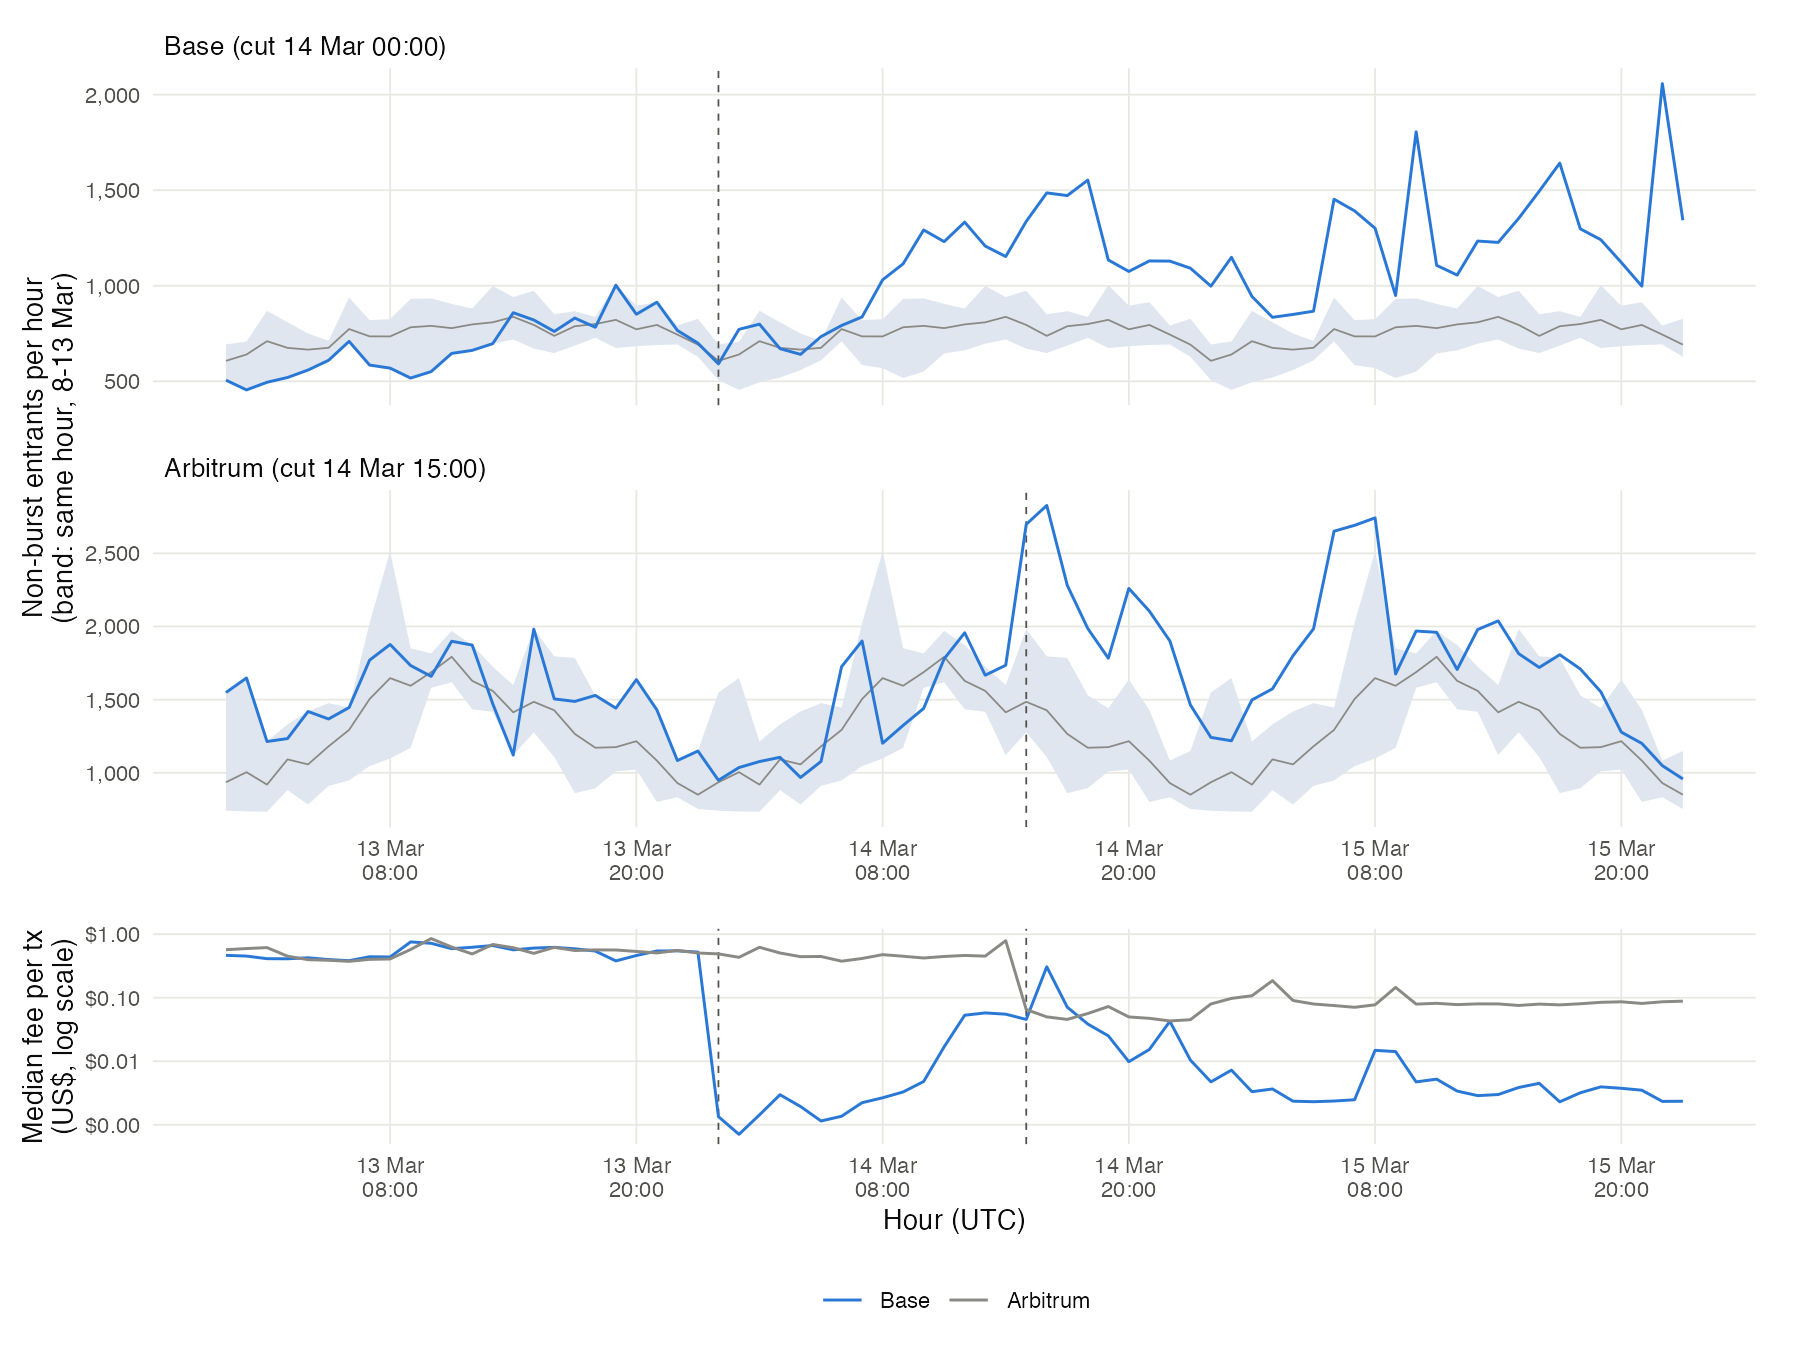
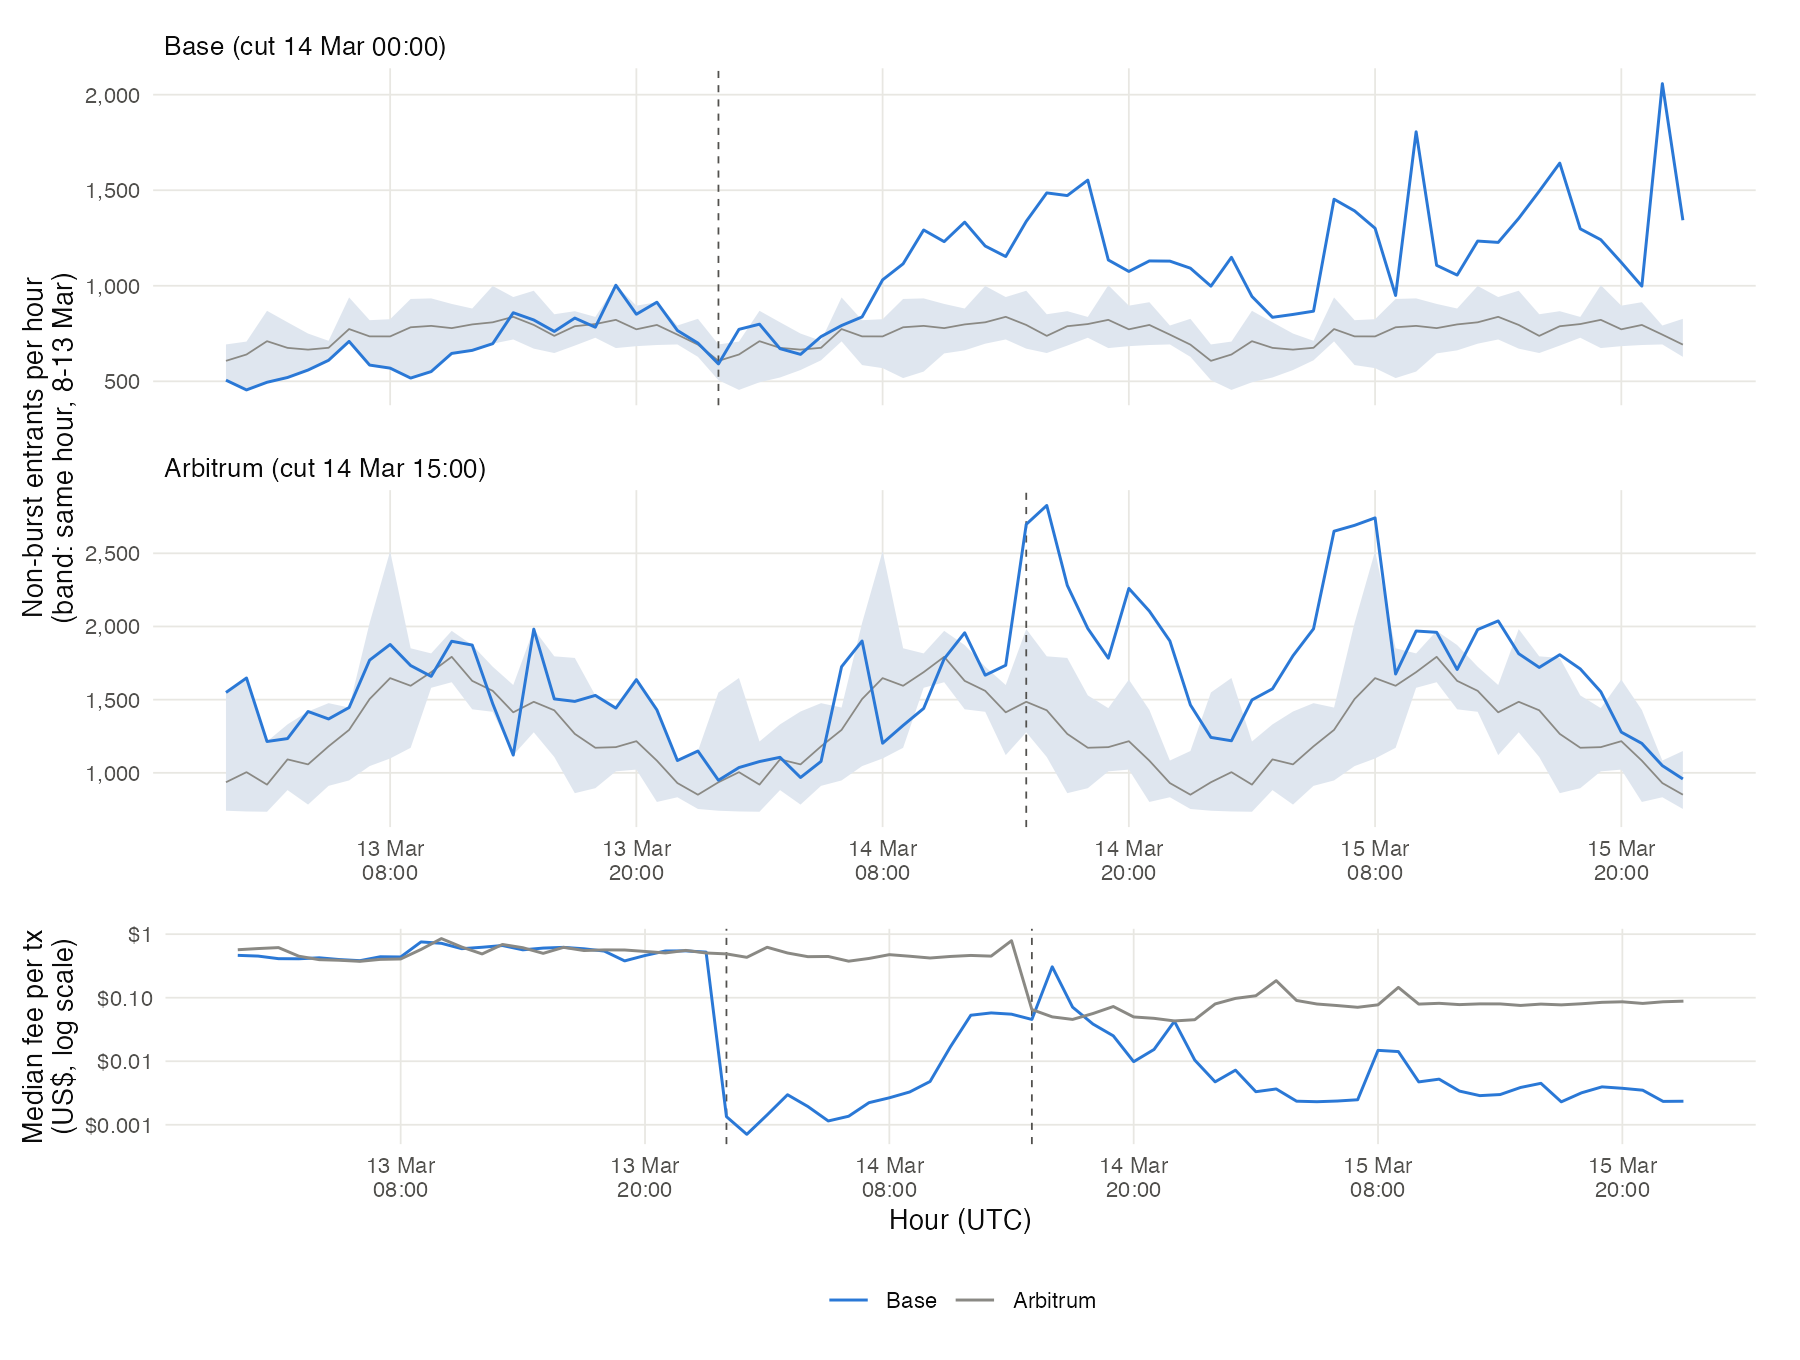
Relabel Ethereum L1 in the waves figure and fix the fee axis in the cut-day figure
- waves_2024_with_l1.png: L1 is labelled "comparison: fee fell far less" (its median fee fell 42% in the low-fee days)
- cut_day_hours.png: the hourly fee axis shows $0.001, $0.01, $0.10 and $1 instead of rounded labels

diff --git a/results/logs/06_analysis_users.md b/results/logs/06_analysis_users.md
@@ -1,5 +1,5 @@
 # 06 users
-Run 2026-10-17 02:33:24 UTC
+Run 2026-10-17 12:48:54 UTC
 Entrants: base 1628756; arbitrum 1228511
 ## A. Base (Ecotone), W = 12 h each side: entrants/hour 821 -> 1016
                                   y  before      jump    ri_p n_fake marginal    m_lo   m_hi
